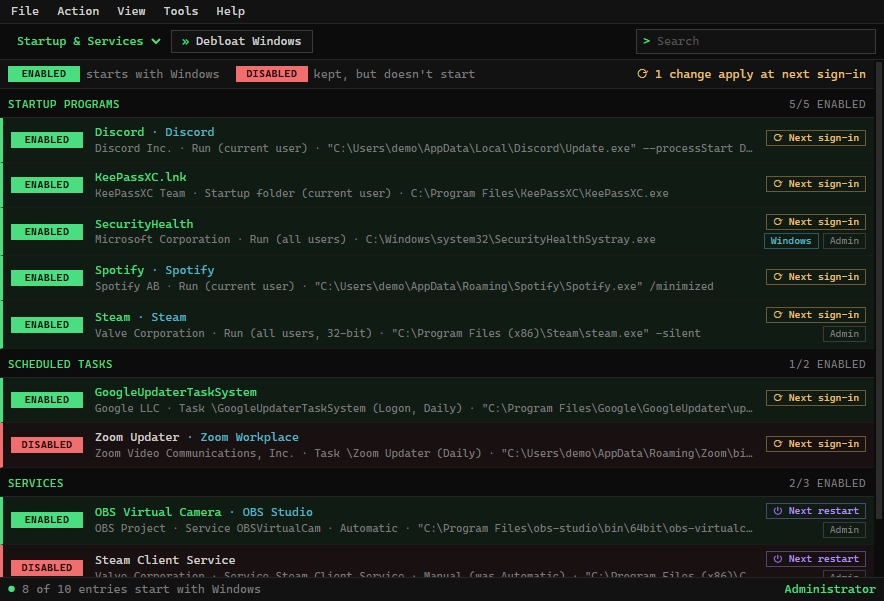
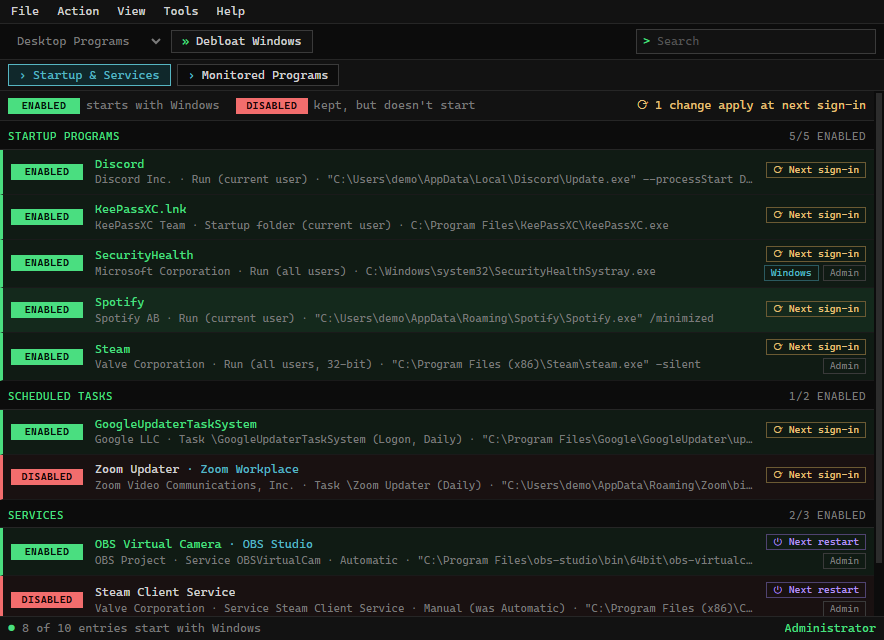
Add a second toolbar; move Backups to Tools; drop the release zip
A second toolbar under the main one has Startup & Services and
Monitored Programs buttons (click again to return to the list). The
view picker now lists only Desktop Programs and Windows Store Apps,
and Backups moved from View to Tools (Ctrl+4 unchanged). Messages that
pointed to View > Backups now say Tools > Backups.

Releases now publish only the setup exe and the portable exe.
README and screenshots (demo data, Tauri build) updated, including a
new Monitored Programs screenshot.

diff --git a/src/App.jsx b/src/App.jsx
@@ -9,10 +9,10 @@ const api = window.api;
 const VIEWS = {
   desktop: { label: 'Desktop Programs', noun: 'programs', cols: [['name', 'Name'], ['size', 'Size'], ['date', 'Installed On']] },
   store: { label: 'Windows Store Apps', noun: 'apps', cols: [['name', 'Name'], ['version', 'Version'], ['publisher', 'Publisher']] },
-  monitored: { label: 'Monitored Programs', noun: 'monitored programs', cols: [['name', 'Name'], ['size', 'Changes'], ['date', 'Monitored On']] },
-  backups: { label: 'Backups', noun: 'backups', cols: [['name', 'Removed'], ['size', 'Entries'], ['date', 'Backed Up On']] },
-  startup: { label: 'Startup & Services', noun: 'entries', cols: [], custom: true },
-  // Reached through its own toolbar button, not the view picker.
+  // Views below are opened from toolbar buttons or the Tools menu, not the view picker.
+  monitored: { label: 'Monitored Programs', noun: 'monitored programs', cols: [['name', 'Name'], ['size', 'Changes'], ['date', 'Monitored On']], button: true },
+  backups: { label: 'Backups', noun: 'backups', cols: [['name', 'Removed'], ['size', 'Entries'], ['date', 'Backed Up On']], button: true },
+  startup: { label: 'Startup & Services', noun: 'entries', cols: [], custom: true, button: true },
   debloat: { label: 'Debloat Windows', noun: 'tweaks', cols: [], button: true, custom: true },
 };
 
@@ -56,7 +56,6 @@ const MENUS = [
       ['view:desktop', 'Desktop Programs', 'Ctrl+1'],
       ['view:store', 'Windows Store Apps', 'Ctrl+2'],
       ['view:monitored', 'Monitored Programs', 'Ctrl+3'],
-      ['view:backups', 'Backups', 'Ctrl+4'],
       ['view:debloat', 'Debloat Windows', 'Ctrl+5'],
       ['view:startup', 'Startup & Services', 'Ctrl+6'],
       null,
@@ -64,7 +63,7 @@ const MENUS = [
       ['refresh', 'Refresh', 'F5'],
     ],
   ],
-  ['Tools', [['monitor', 'Monitor an Installation...', 'Ctrl+M'], null, ['toggleRestore', 'Create Restore Points']]],
+  ['Tools', [['monitor', 'Monitor an Installation...', 'Ctrl+M'], ['view:backups', 'Backups', 'Ctrl+4'], null, ['toggleRestore', 'Create Restore Points']]],
   ['Help', [['about', 'About']]],
 ];
 
@@ -144,7 +143,9 @@ export default function App() {
   // Debloat and Startup views load their own data; their status text and remount key live here.
   const [customStatus, setCustomStatus] = useState('');
   const [customKey, setCustomKey] = useState(0);
-  if (view !== 'debloat') lastListView.current = view;
+  // The program list to go back to when a toolbar view is closed.
+  if (!VIEWS[view].button) lastListView.current = view;
+  const toggleView = (v) => setView(view === v ? lastListView.current : v);
 
   const load = useCallback(async (v = view) => {
     if (VIEWS[v].custom) return setCustomKey((k) => k + 1);
@@ -283,7 +284,7 @@ export default function App() {
     setBusy('Backing up and removing selected items…');
     try {
       const { results } = await api.invoke('items:remove', { title, items });
-      setModal({ type: 'results', title: 'Removal Report', results, note: 'A backup was saved. To undo, go to View › Backups.' });
+      setModal({ type: 'results', title: 'Removal Report', results, note: 'A backup was saved. To undo, go to Tools › Backups.' });
       return true;
     } catch (e) {
       setError(e.message);
@@ -591,10 +592,10 @@ ${visible.map((r) => `<tr><td>${esc(r.name)}</td><td>${esc(r.version)}</td><td>$
       <div className="toolbar">
         <div className="toolbar-left">
           <select
-            className={`view-picker ${view === 'debloat' ? 'inactive' : ''}`}
-            value={view === 'debloat' ? lastListView.current : view}
+            className={`view-picker ${VIEWS[view].button ? 'inactive' : ''}`}
+            value={VIEWS[view].button ? lastListView.current : view}
             onChange={(e) => setView(e.target.value)}
-            onClick={() => view === 'debloat' && setView(lastListView.current)}
+            onClick={() => VIEWS[view].button && setView(lastListView.current)}
             aria-label="View"
           >
             {Object.entries(VIEWS)
@@ -607,7 +608,7 @@ ${visible.map((r) => `<tr><td>${esc(r.name)}</td><td>${esc(r.version)}</td><td>$
           </select>
           <button
             className={`debloat-button ${view === 'debloat' ? 'active' : ''}`}
-            onClick={() => setView(view === 'debloat' ? lastListView.current : 'debloat')}
+            onClick={() => toggleView('debloat')}
             aria-pressed={view === 'debloat'}
             title="Safe, reversible tweaks that remove Windows ads, telemetry and clutter (Ctrl+5)"
           >
@@ -622,6 +623,17 @@ ${visible.map((r) => `<tr><td>${esc(r.name)}</td><td>${esc(r.version)}</td><td>$
             </button>
           )}
         </div>
+      </div>
+      <div className="toolbar toolbar2" role="toolbar" aria-label="Tools">
+        {[
+          ['startup', 'Startup & Services', 'Programs, tasks and services that start with Windows (Ctrl+6)'],
+          ['monitored', 'Monitored Programs', 'Programs recorded with Tools › Monitor an Installation (Ctrl+3)'],
+        ].map(([id, label, title]) => (
+          <button key={id} className={`tool-button ${view === id ? 'active' : ''}`} onClick={() => toggleView(id)} aria-pressed={view === id} title={title}>
+            {label}
+          </button>
+        ))}
+        {view === 'backups' && <span className="toolbar-note">Backups · open from Tools › Backups</span>}
       </div>
 
       {error && (

diff --git a/src/styles.css b/src/styles.css
@@ -364,3 +364,14 @@ input[type='checkbox']:indeterminate::after { content: ''; width: 7px; height: 2
 /* app-drawn confirmation dialog */
 .confirm-detail { white-space: pre-line; color: var(--text); margin: 0 0 10px; line-height: 1.5; }
 .confirm-check { display: flex; align-items: center; gap: 8px; margin-top: 12px; color: var(--text); cursor: pointer; }
+
+/* second toolbar: Startup & Services and Monitored Programs */
+.toolbar2 { justify-content: flex-start; gap: 6px; padding: 4px 8px; background: var(--panel); }
+.tool-button {
+  border: 1px solid var(--border-strong); background: var(--bg); color: var(--text);
+  padding: 2px 10px; cursor: pointer;
+}
+.tool-button::before { content: '› '; color: var(--cyan); }
+.tool-button:hover { border-color: var(--cyan); color: var(--cyan); }
+.tool-button.active { border-color: var(--cyan); background: #10282b; color: var(--cyan); }
+.toolbar-note { margin-left: auto; color: var(--muted); }

diff --git a/src/dialogs.jsx b/src/dialogs.jsx
@@ -209,7 +209,7 @@ export function LeftoversDialog({ title, heading, items, onClose, onRemove }) {
           ])}
         </div>
       )}
-      <p className="footnote">Everything you delete is backed up first. Registry entries can be restored from View › Backups, and files go to the Recycle Bin.</p>
+      <p className="footnote">Everything you delete is backed up first. Registry entries can be restored from Tools › Backups, and files go to the Recycle Bin.</p>
     </Dialog>
   );
 }

diff --git a/README.md b/README.md
@@ -10,6 +10,8 @@ It has a compact single-list window with a dark terminal theme. It is built with
 ## Features
 
 **Program list**
+- The top toolbar switches between Desktop Programs and Windows Store Apps, opens **Debloat Windows**, and has the search box.
+- A second toolbar opens **Startup & Services** and **Monitored Programs**; clicking an active button again returns to the program list. **Backups** is in the Tools menu.
 - Desktop programs from all three registry uninstall locations (64-bit, 32-bit and per-user), with icons, size and install date
 - When a program doesn't report its size or install date, SweepUninstall measures its folder in the background. Measured values are shown in italics; hover one to see which folder it came from.
 - Windows Store apps
@@ -50,7 +52,7 @@ It has a compact single-list window with a dark terminal theme. It is built with
 
 **Installation monitor**
 - **Tools › Monitor an Installation** takes a snapshot of the file system and registry, runs your installer, takes a second snapshot and records every folder, file, registry key, startup entry and service that was added.
-- Monitored programs appear under **View › Monitored Programs**. Uninstalling one removes exactly what its installation created.
+- Monitored programs appear under the **Monitored Programs** button in the second toolbar (or `Ctrl+3`). Uninstalling one removes exactly what its installation created.
 
 **Debloat Windows**
 - The **Debloat Windows** button next to the view picker (or `Ctrl+5`) lists 26 safe, reversible tweaks in five groups: Privacy & telemetry, Start/search/taskbar, Ads & suggestions, Explorer & UI, and Windows Update.
@@ -60,7 +62,7 @@ It has a compact single-list window with a dark terminal theme. It is built with
 - Only options that are safe and widely recommended are included: no service removal, no app removal, and no security features turned off.
 
 **Startup & Services**
-- **View › Startup & Services** (`Ctrl+6`) lists everything that starts with Windows:
+- The **Startup & Services** button in the second toolbar (or `Ctrl+6`) lists everything that starts with Windows:
   - Run entries and Startup-folder shortcuts
   - scheduled tasks outside Windows' own `\Microsoft\` folder
   - third-party services that start automatically
@@ -78,7 +80,7 @@ It has a compact single-list window with a dark terminal theme. It is built with
   - Firewall rules are saved with their settings.
   - Services have their definition exported.
   - Files go to the Recycle Bin.
-- **View › Backups** restores registry entries, tasks, firewall rules and services from any removal.
+- **Tools › Backups** (`Ctrl+4`) restores registry entries, tasks, firewall rules and services from any removal.
 
 **Safety**
 - An automated test suite runs on every build and blocks a release if it fails. It covers name matching, the protected-folder guard, snapshot comparison, debloat reversibility, match scores and the startup switches.
@@ -101,9 +103,9 @@ It has a compact single-list window with a dark terminal theme. It is built with
 | --- | --- |
 | ![Three programs selected](docs/screenshots/multi-select.png) | ![Combined leftover list after a batch uninstall](docs/screenshots/batch-uninstall.png) |
 
-| Startup & Services |
-| --- |
-| ![Startup and services manager](docs/screenshots/startup.png) |
+| Startup & Services | Monitored Programs |
+| --- | --- |
+| ![Startup and services manager](docs/screenshots/startup.png) | ![Monitored programs](docs/screenshots/monitored.png) |
 
 | Installation monitor | Windows Store apps |
 | --- | --- |
@@ -121,9 +123,8 @@ Get the latest version from [Releases](https://github.com/SeanShaffer88/SweepUni
 
 - **`SweepUninstall-Setup-<version>.exe`** (about 1.2 MB) installs for all users, with a Start Menu shortcut. You can remove it later from Settings › Apps.
 - **`SweepUninstall-Portable-<version>.exe`** (about 3.3 MB) is the whole app as one exe that runs without installing.
-- **`SweepUninstall-Portable-<version>-win-x64.zip`** is the same portable exe, zipped.
 
-All of them ask for administrator rights when they start, because removing programs installed for all users, creating restore points and machine-wide debloat tweaks all need them.
+Both ask for administrator rights when they start, because removing programs installed for all users, creating restore points and machine-wide debloat tweaks all need them.
 
 SweepUninstall uses the Microsoft Edge WebView2 runtime, which is part of Windows 10 and 11. If it's missing, the installer downloads it.
 
@@ -152,7 +153,7 @@ npm run dist
 
 The app exe is written to `src-tauri/target/release/sweepuninstall.exe`, and the installer to `src-tauri/target/release/bundle/nsis/`.
 
-Pushing a tag like `v0.4.0` makes GitHub Actions run the tests, build the installer, the portable exe and the zip, and publish them as a GitHub Release.
+Pushing a tag like `v0.4.0` makes GitHub Actions run the tests, build the installer and the portable exe, and publish both as a GitHub Release.
 
 ### Run the tests
 
@@ -171,7 +172,9 @@ npm test
 | `Ctrl+L` | Analyze leftovers |
 | `Alt+Enter` / `Enter` | Properties |
 | `Ctrl+F` | Search |
-| `Ctrl+1` to `Ctrl+4` | Desktop programs, Store apps, Monitored programs, Backups |
+| `Ctrl+1` / `Ctrl+2` | Desktop programs / Windows Store apps |
+| `Ctrl+3` | Monitored programs |
+| `Ctrl+4` | Backups |
 | `Ctrl+5` | Debloat Windows |
 | `Ctrl+6` | Startup & Services |
 | `Ctrl+M` | Monitor an installation |
